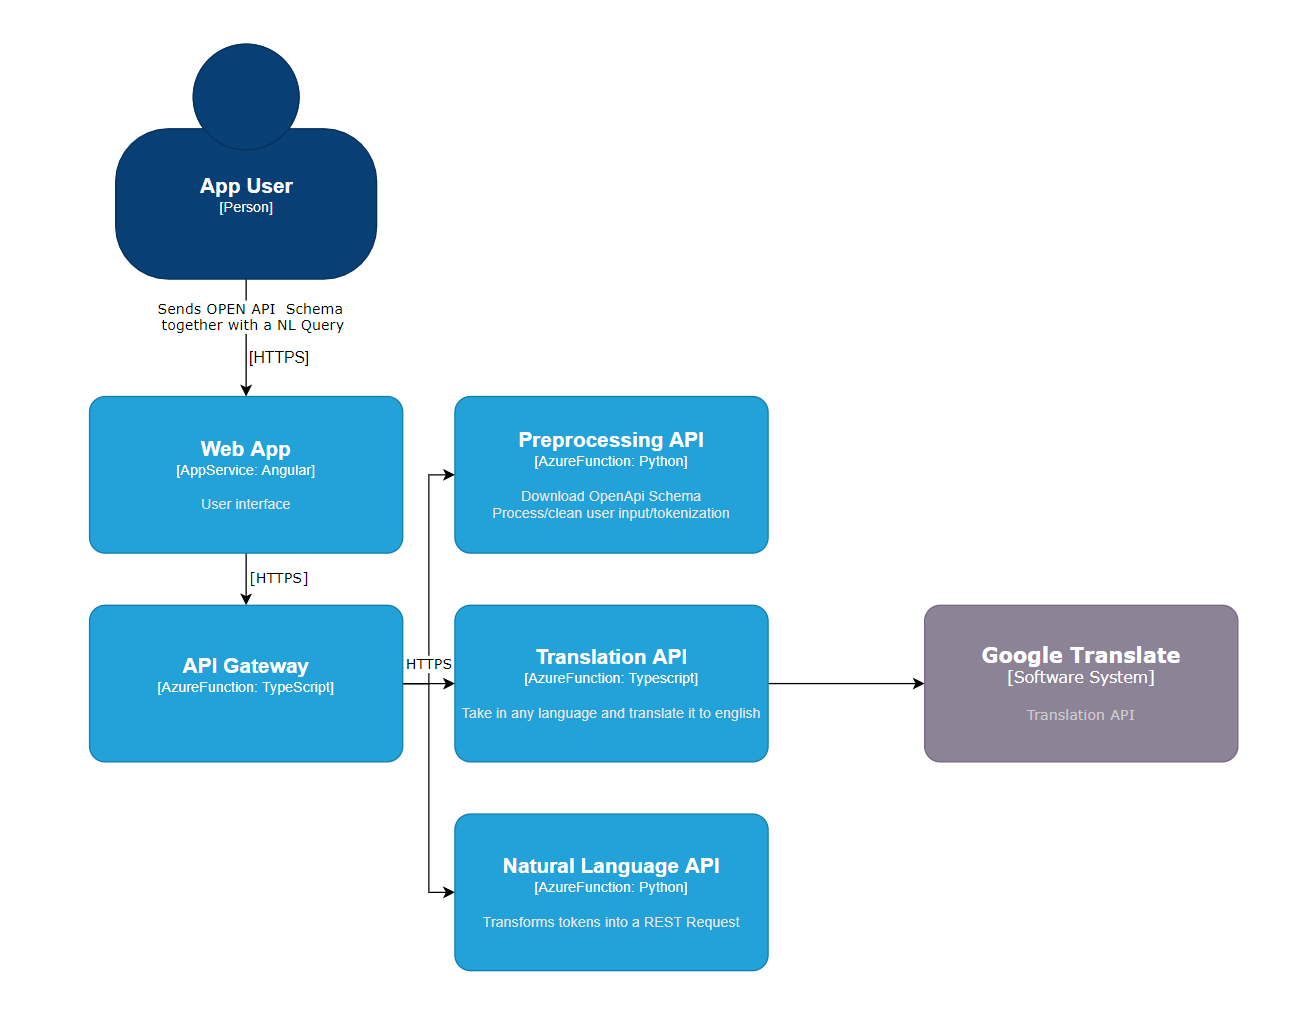
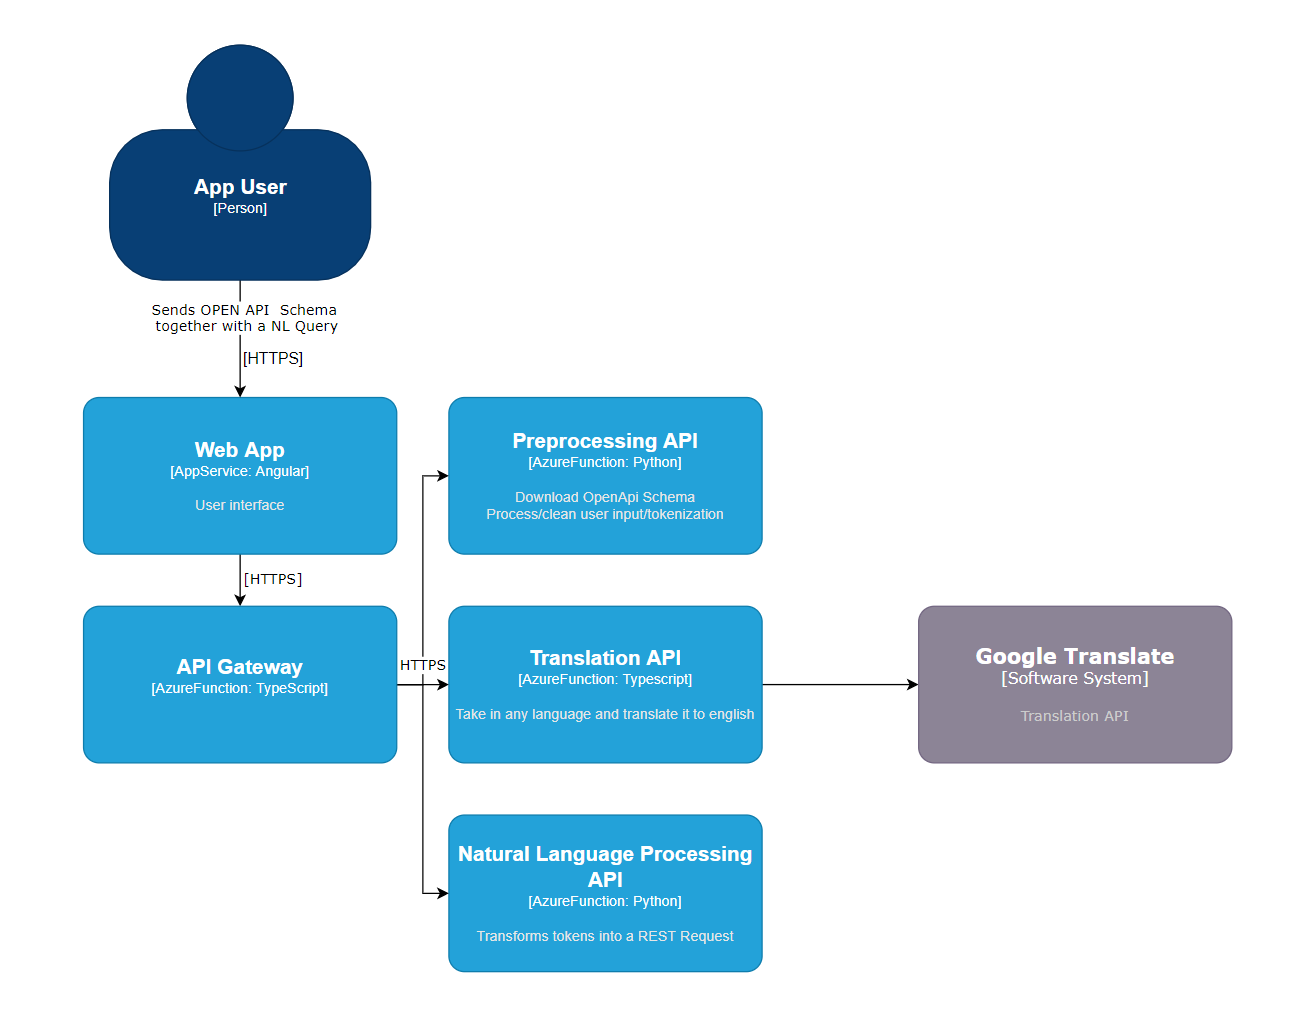
add sequence diagram, edit c4

diff --git a/diagrams/sequence-diagram.md b/diagrams/sequence-diagram.md
@@ -1,0 +1,17 @@
+```mermaid
+sequenceDiagram
+  Title: Sentence to request flow
+  User->> Web Application: GET /;
+  Web Application ->> API Gateway: GET /ProcessNaturalLanguage;
+  API Gateway ->> Translation API: POST /translate
+  Translation API ->> Google Cloud Translation API: POST /translate
+  Google Cloud Translation API -->> Translation API : {translated sentence}
+  Translation API -->> API Gateway: {translated sentence}
+  API Gateway ->> Preprocessing API: POST /preprocess
+  Preprocessing API -->> API Gateway: {preprocessing result}
+  API Gateway ->> NLP API: POST /process
+  NLP API -->> API Gateway: {obtained request}
+  API Gateway -->> Web Application: {obtained request}
+  Web Application ->> External API: send obtained request
+  
+```
